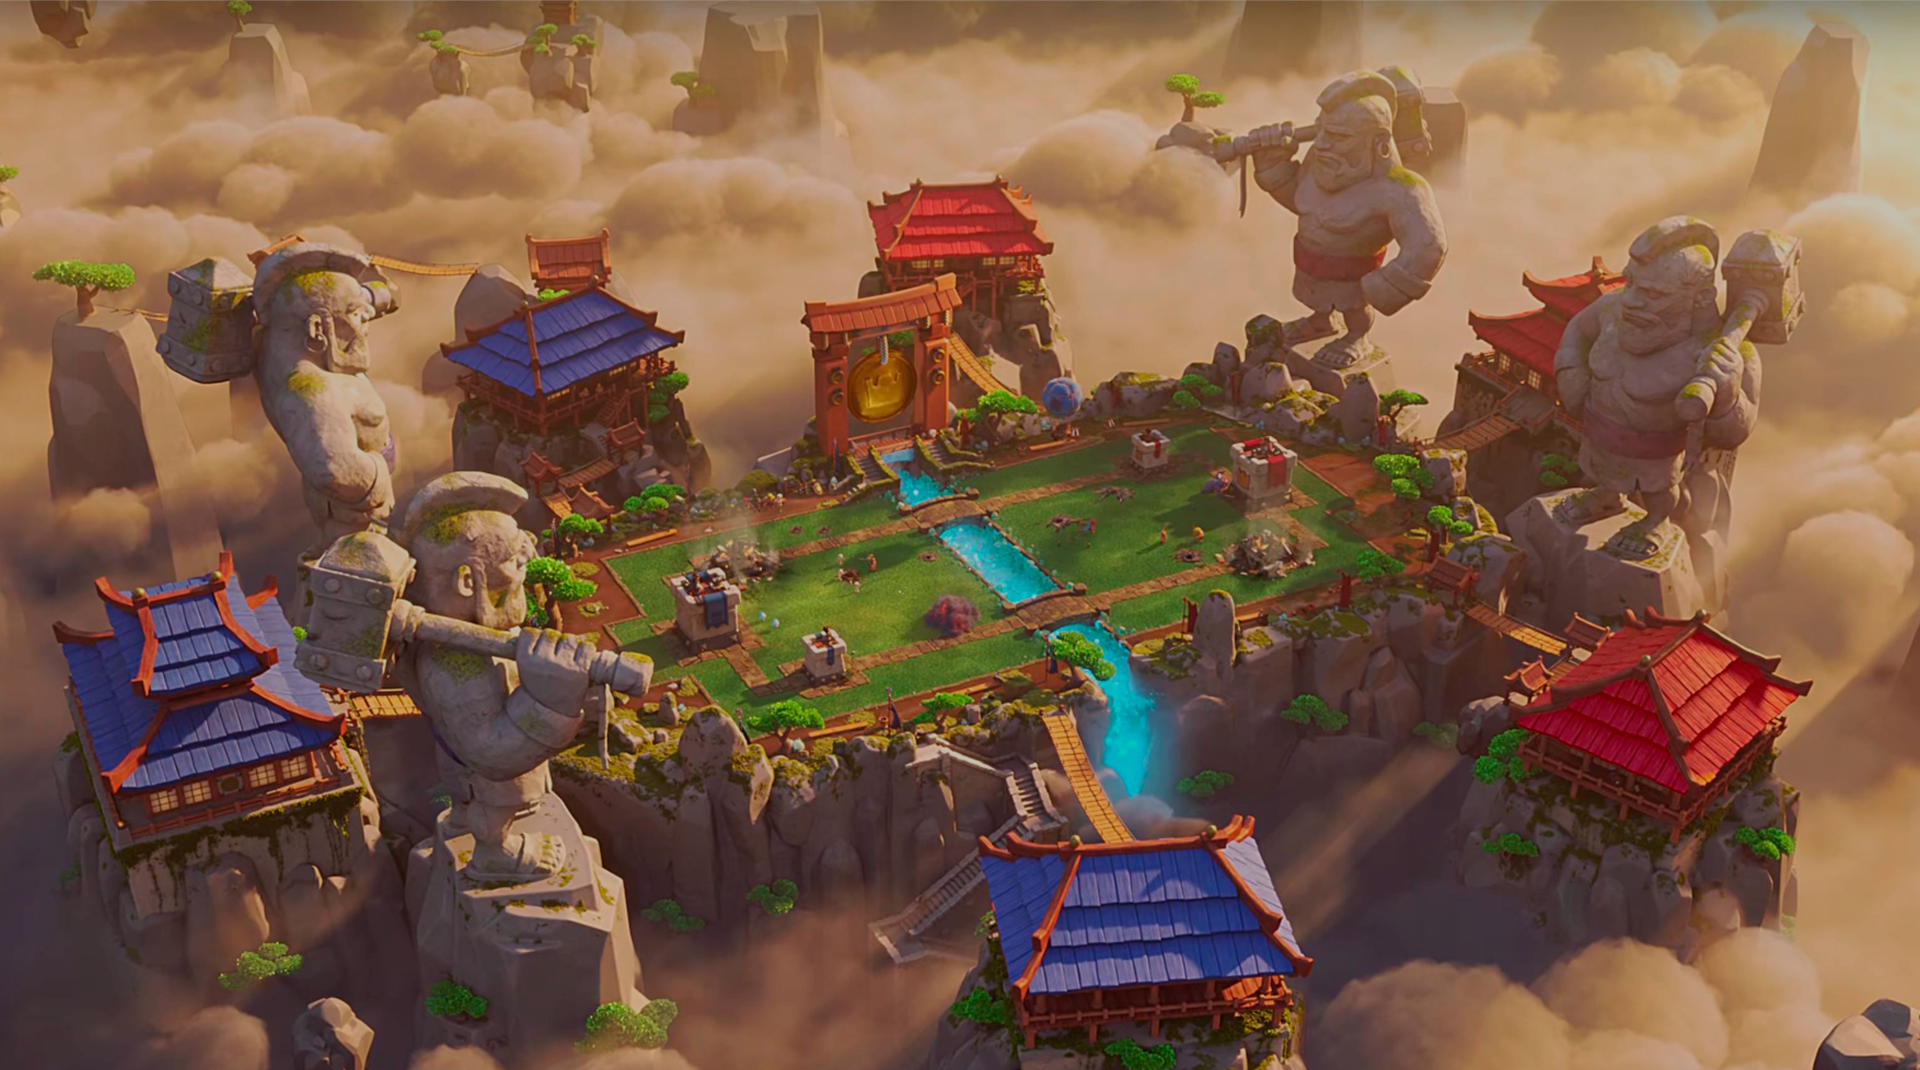
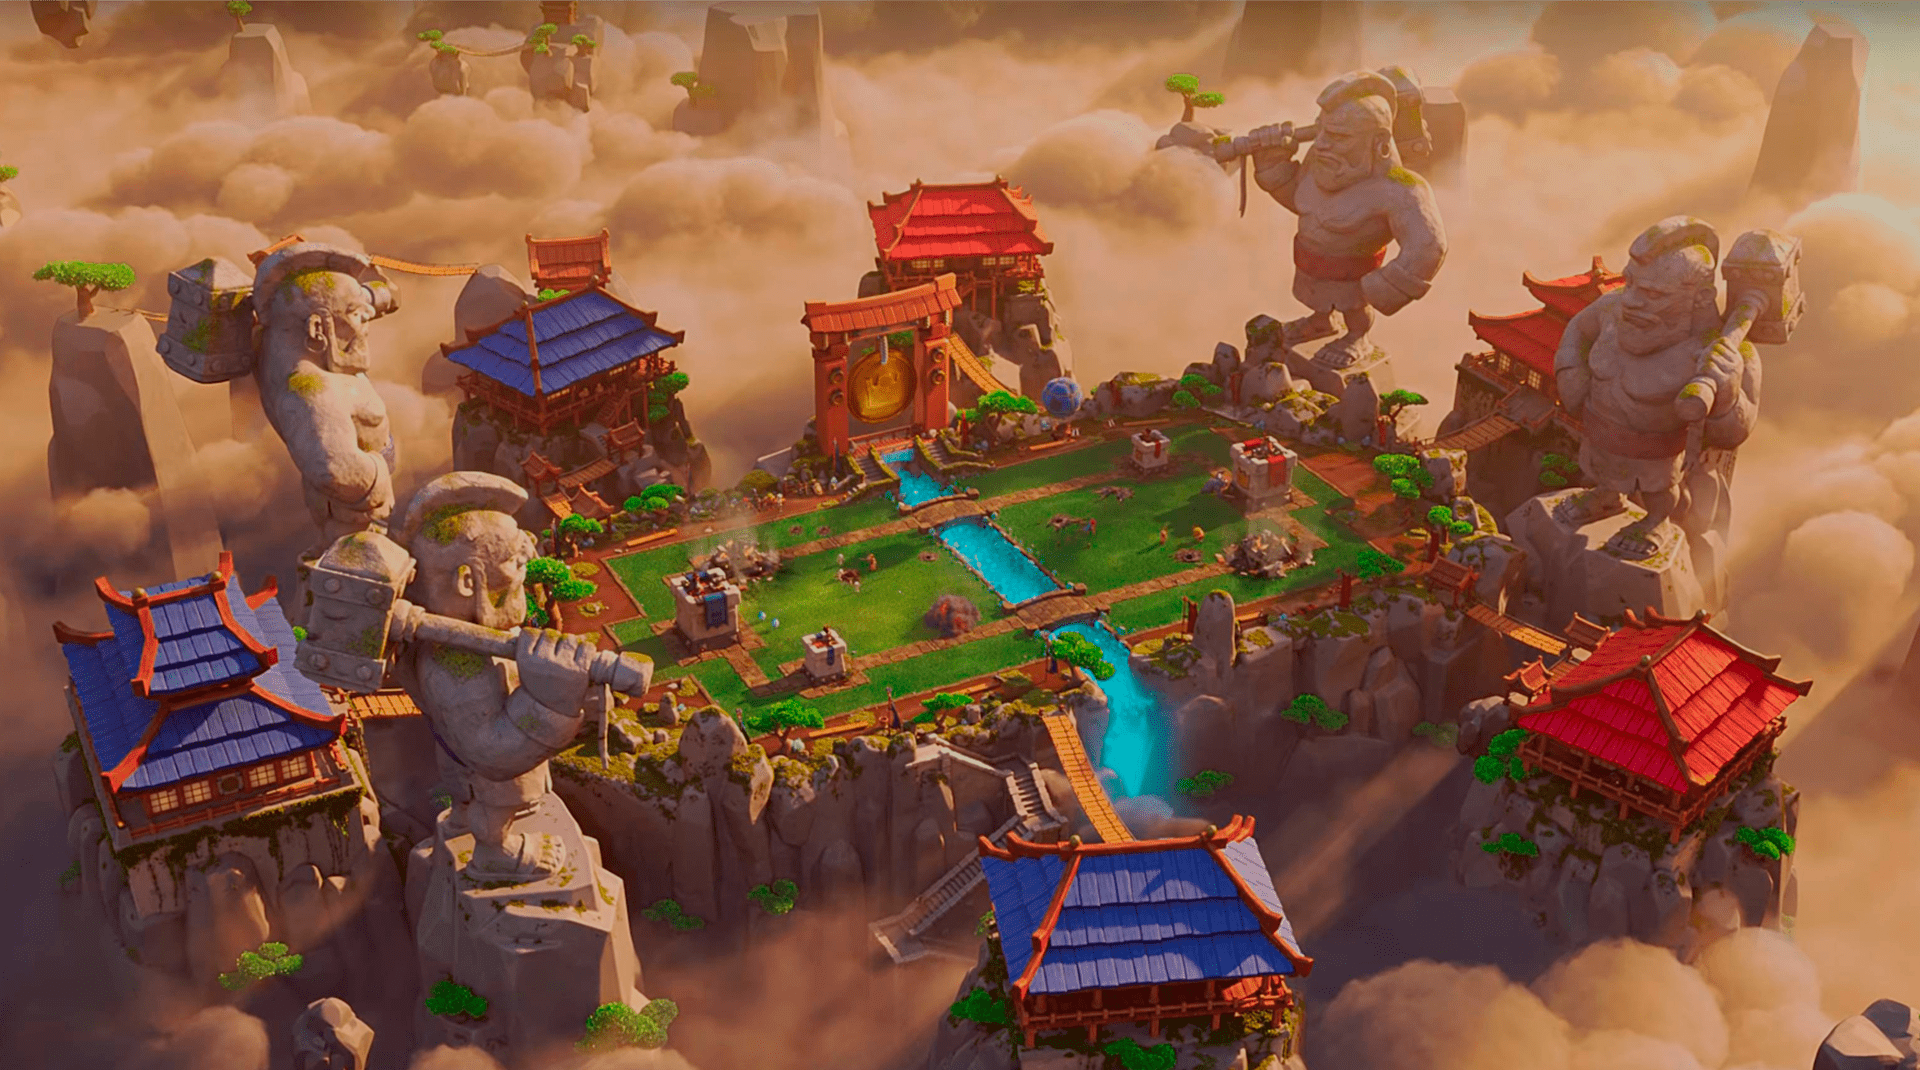
compress pics

diff --git a/pages/docs.html b/pages/docs.html
@@ -14,10 +14,10 @@
             <a href="index.html" id="a1"><img src="../images/main_clash_royale.png" alt="logo" id="logo"></a>
                 <ul id="ul_nav">
                     <li><a href="../index.html" class="nav_a">Головна</a></li>
-                    <li><a href="/pages/docs.html" class="nav_a">Докс</a></li>
-                    <li><a href="/pages/news.html" class="nav_a">Новини</a></li>
-                    <li><a href="/pages/shop.html" class="nav_a">Магазин</a></li>
-                    <li><a href="/pages/profile.html" class="nav_a">Кабінет</a></li>
+                    <li><a href="../pages/docs.html" class="nav_a">Докс</a></li>
+                    <li><a href="../pages/news.html" class="nav_a">Новини</a></li>
+                    <li><a href="../pages/shop.html" class="nav_a">Магазин</a></li>
+                    <li><a href="../pages/profile.html" class="nav_a">Кабінет</a></li>
                 </ul>
                 <div class="hamburger-menu">
                     <input id="menu__toggle" type="checkbox" />
@@ -27,10 +27,10 @@
                 
                     <ul class="menu__box">
                             <li><a class="menu__item" href="../index.html">Головна</a></li><hr>
-                            <li><a class="menu__item" href="/pages/docs.html">Докс</a></li><hr>
-                            <li><a class="menu__item" href="/pages/news.html">Новини</a></li><hr>
-                            <li><a class="menu__item" href="/pages/shop.html">Магазин</a></li><hr>
-                            <li><a class="menu__item" href="/pages/profile.html">Кабінет</a></li>
+                            <li><a class="menu__item" href="../pages/docs.html">Докс</a></li><hr>
+                            <li><a class="menu__item" href="../pages/news.html">Новини</a></li><hr>
+                            <li><a class="menu__item" href="../pages/shop.html">Магазин</a></li><hr>
+                            <li><a class="menu__item" href="../pages/profile.html">Кабінет</a></li>
                     </ul>
                 </div>
         </div>

diff --git a/pages/news.html b/pages/news.html
@@ -14,10 +14,10 @@
             <a href="index.html" id="a1"><img src="../images/main_clash_royale.png" alt="logo" id="logo"></a>
                 <ul id="ul_nav">
                     <li><a href="../index.html" class="nav_a">Головна</a></li>
-                    <li><a href="/pages/docs.html" class="nav_a">Докс</a></li>
-                    <li><a href="/pages/news.html" class="nav_a">Новини</a></li>
-                    <li><a href="/pages/shop.html" class="nav_a">Магазин</a></li>
-                    <li><a href="/pages/profile.html" class="nav_a">Кабінет</a></li>
+                    <li><a href="../pages/docs.html" class="nav_a">Докс</a></li>
+                    <li><a href="../pages/news.html" class="nav_a">Новини</a></li>
+                    <li><a href="../pages/shop.html" class="nav_a">Магазин</a></li>
+                    <li><a href="../pages/profile.html" class="nav_a">Кабінет</a></li>
                 </ul>
                 <div class="hamburger-menu">
                     <input id="menu__toggle" type="checkbox" />
@@ -27,10 +27,10 @@
                 
                     <ul class="menu__box">
                             <li><a class="menu__item" href="../index.html">Головна</a></li><hr>
-                            <li><a class="menu__item" href="/pages/docs.html">Докс</a></li><hr>
-                            <li><a class="menu__item" href="/pages/news.html">Новини</a></li><hr>
-                            <li><a class="menu__item" href="/pages/shop.html">Магазин</a></li><hr>
-                            <li><a class="menu__item" href="/pages/profile.html">Кабінет</a></li>
+                            <li><a class="menu__item" href="../pages/docs.html">Докс</a></li><hr>
+                            <li><a class="menu__item" href="../pages/news.html">Новини</a></li><hr>
+                            <li><a class="menu__item" href="../pages/shop.html">Магазин</a></li><hr>
+                            <li><a class="menu__item" href="../pages/profile.html">Кабінет</a></li>
                     </ul>
                 </div>
         </div>

diff --git a/pages/profile.html b/pages/profile.html
@@ -14,10 +14,10 @@
             <a href="index.html" id="a1"><img src="../images/main_clash_royale.png" alt="logo" id="logo"></a>
                 <ul id="ul_nav">
                     <li><a href="../index.html" class="nav_a">Головна</a></li>
-                    <li><a href="/pages/docs.html" class="nav_a">Докс</a></li>
-                    <li><a href="/pages/news.html" class="nav_a">Новини</a></li>
-                    <li><a href="/pages/shop.html" class="nav_a">Магазин</a></li>
-                    <li><a href="/pages/profile.html" class="nav_a">Кабінет</a></li>
+                    <li><a href="../pages/docs.html" class="nav_a">Докс</a></li>
+                    <li><a href="../pages/news.html" class="nav_a">Новини</a></li>
+                    <li><a href="../pages/shop.html" class="nav_a">Магазин</a></li>
+                    <li><a href="../pages/profile.html" class="nav_a">Кабінет</a></li>
                 </ul>
                 <div class="hamburger-menu">
                     <input id="menu__toggle" type="checkbox" />
@@ -27,10 +27,10 @@
                 
                     <ul class="menu__box">
                             <li><a class="menu__item" href="../index.html">Головна</a></li><hr>
-                            <li><a class="menu__item" href="/pages/docs.html">Докс</a></li><hr>
-                            <li><a class="menu__item" href="/pages/news.html">Новини</a></li><hr>
-                            <li><a class="menu__item" href="/pages/shop.html">Магазин</a></li><hr>
-                            <li><a class="menu__item" href="/pages/profile.html">Кабінет</a></li>
+                            <li><a class="menu__item" href="../pages/docs.html">Докс</a></li><hr>
+                            <li><a class="menu__item" href="../pages/news.html">Новини</a></li><hr>
+                            <li><a class="menu__item" href="../pages/shop.html">Магазин</a></li><hr>
+                            <li><a class="menu__item" href="../pages/profile.html">Кабінет</a></li>
                     </ul>
                 </div>
         </div>

diff --git a/pages/shop.html b/pages/shop.html
@@ -14,10 +14,10 @@
             <a href="index.html" id="a1"><img src="../images/main_clash_royale.png" alt="logo" id="logo"></a>
                 <ul id="ul_nav">
                     <li><a href="../index.html" class="nav_a">Головна</a></li>
-                    <li><a href="/pages/docs.html" class="nav_a">Докс</a></li>
-                    <li><a href="/pages/news.html" class="nav_a">Новини</a></li>
-                    <li><a href="/pages/shop.html" class="nav_a">Магазин</a></li>
-                    <li><a href="/pages/profile.html" class="nav_a">Кабінет</a></li>
+                    <li><a href="../pages/docs.html" class="nav_a">Докс</a></li>
+                    <li><a href="../pages/news.html" class="nav_a">Новини</a></li>
+                    <li><a href="../pages/shop.html" class="nav_a">Магазин</a></li>
+                    <li><a href="../pages/profile.html" class="nav_a">Кабінет</a></li>
                 </ul>
                 <div class="hamburger-menu">
                     <input id="menu__toggle" type="checkbox" />
@@ -27,10 +27,10 @@
                 
                     <ul class="menu__box">
                             <li><a class="menu__item" href="../index.html">Головна</a></li><hr>
-                            <li><a class="menu__item" href="/pages/docs.html">Докс</a></li><hr>
-                            <li><a class="menu__item" href="/pages/news.html">Новини</a></li><hr>
-                            <li><a class="menu__item" href="/pages/shop.html">Магазин</a></li><hr>
-                            <li><a class="menu__item" href="/pages/profile.html">Кабінет</a></li>
+                            <li><a class="menu__item" href="../pages/docs.html">Докс</a></li><hr>
+                            <li><a class="menu__item" href="../pages/news.html">Новини</a></li><hr>
+                            <li><a class="menu__item" href="../pages/shop.html">Магазин</a></li><hr>
+                            <li><a class="menu__item" href="../pages/profile.html">Кабінет</a></li>
                     </ul>
                 </div>
         </div>
